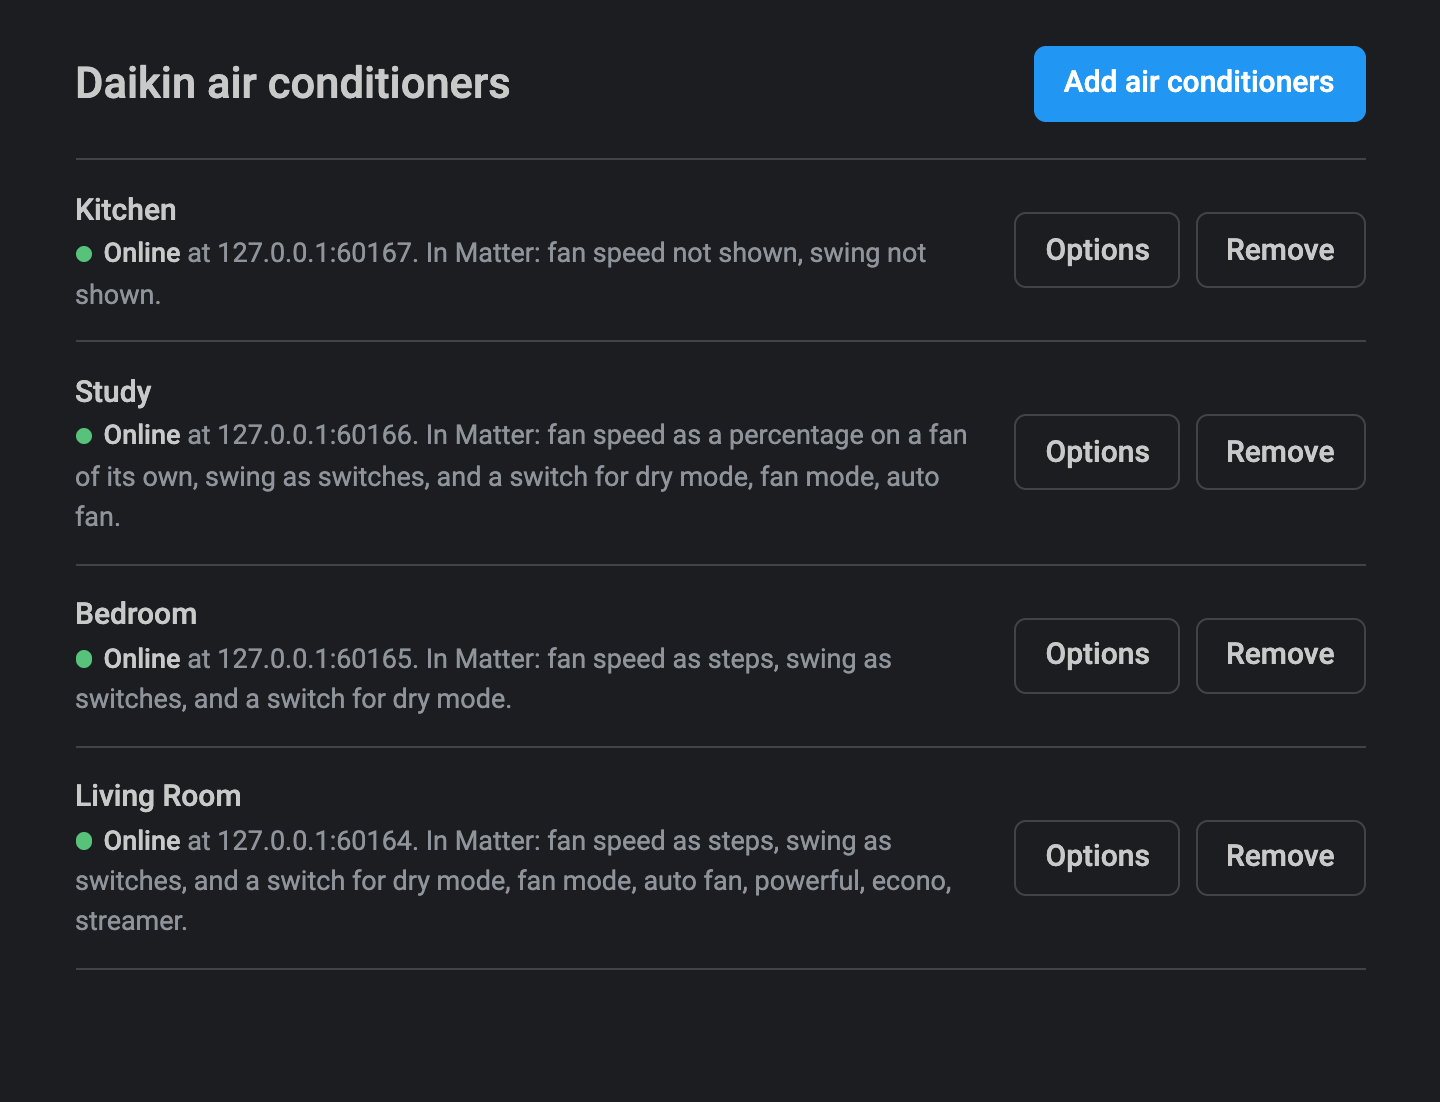
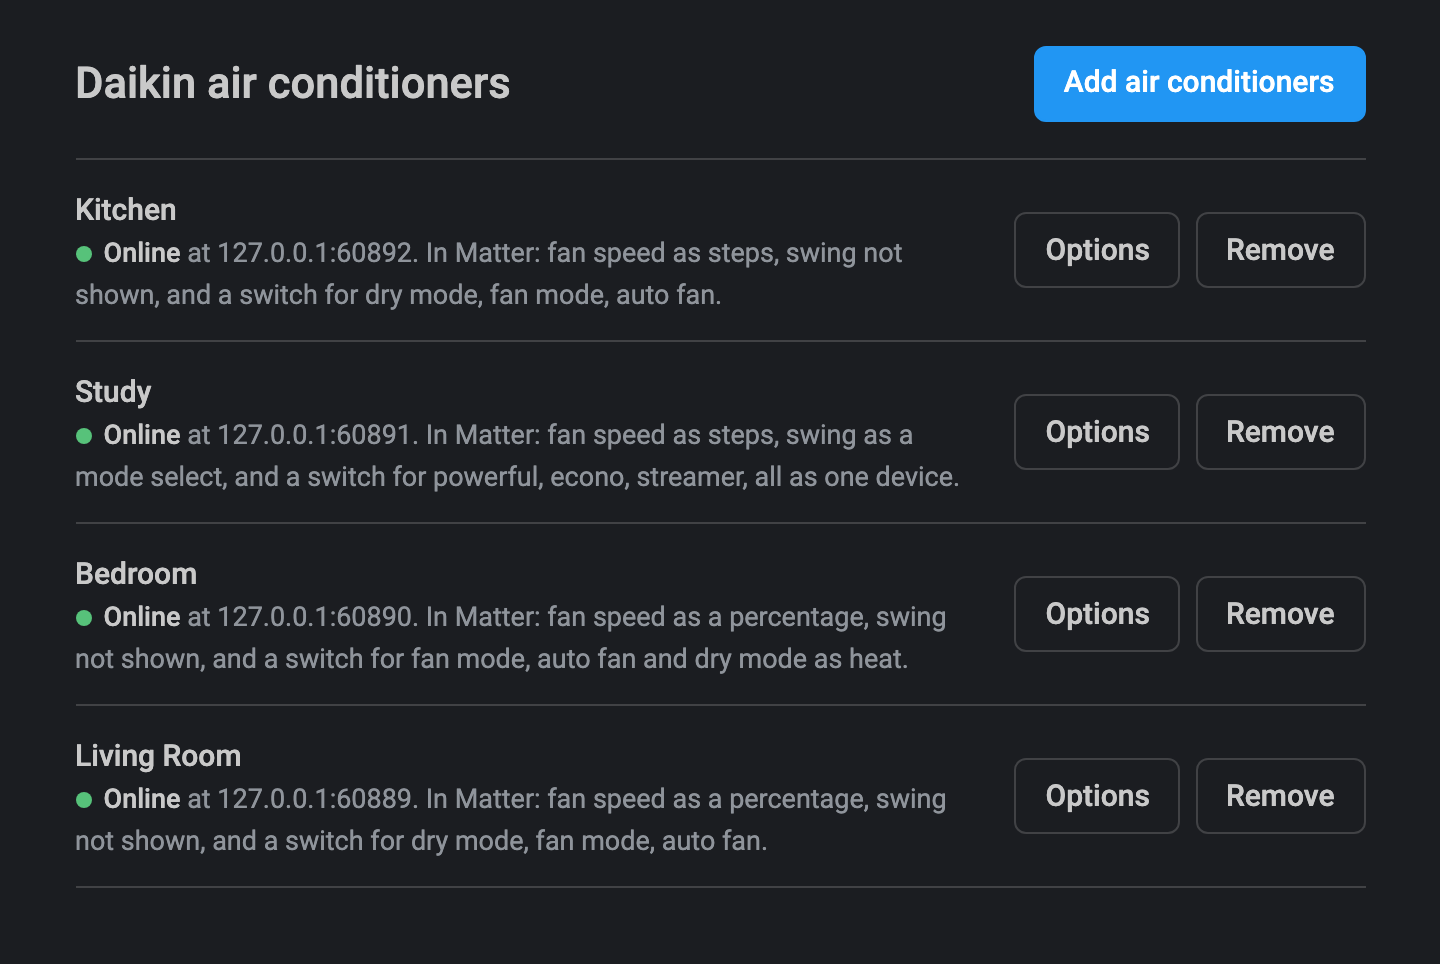
docs(readme): update the setup page screenshots
The screenshots showed the setup page before the mode switches, the mode replacements, the reworked
presets and the 3D swing. They are taken again from the setup page against simulated adapters, at the
same size, and the switches screenshot becomes options-modes.png for the Modes section.

diff --git a/README.md b/README.md
@@ -80,12 +80,12 @@ Afterwards the same page lists your air conditioners with their status. From the
   </tr>
   <tr>
     <td valign="top">
-      <img src="screenshots/options-presets-fan.png" alt="The Options step with the presets and the three ways to show the fan speed">
+      <img src="screenshots/options-presets-fan.png" alt="The Options step with the Apple Home preset chosen, the three ways to show the fan speed and the four ways to show the auto fan speed">
       <br><b>Options.</b> Start from a preset, then choose how the fan speed appears.
     </td>
     <td valign="top">
-      <img src="screenshots/options-switches.png" alt="The Options step with the swing choice and the switches for the dry mode, the fan mode and the special modes">
-      <br><b>Options.</b> The swing, and a switch for each mode Matter apps do not offer.
+      <img src="screenshots/options-modes.png" alt="The Options step with the swing not shown, a switch for the fan mode picked from a row of modes, and Heat running dry on a unit that only cools">
+      <br><b>Options.</b> The swing, a switch for any mode, and a mode the unit lacks running another.
     </td>
   </tr>
 </table>
